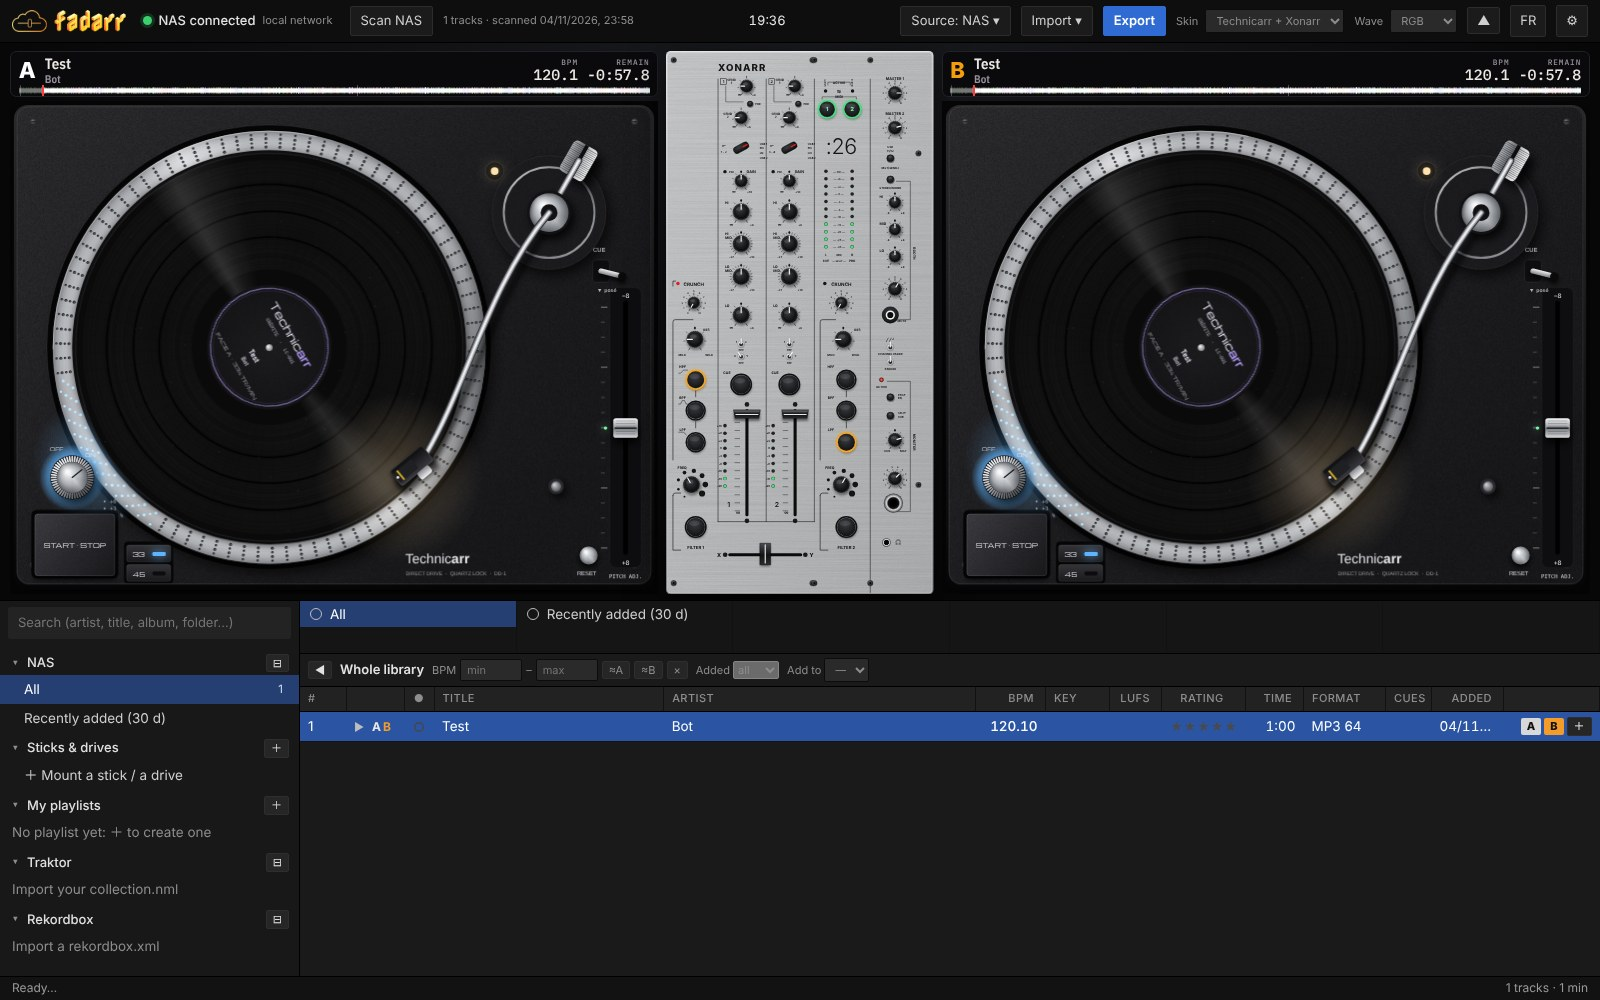
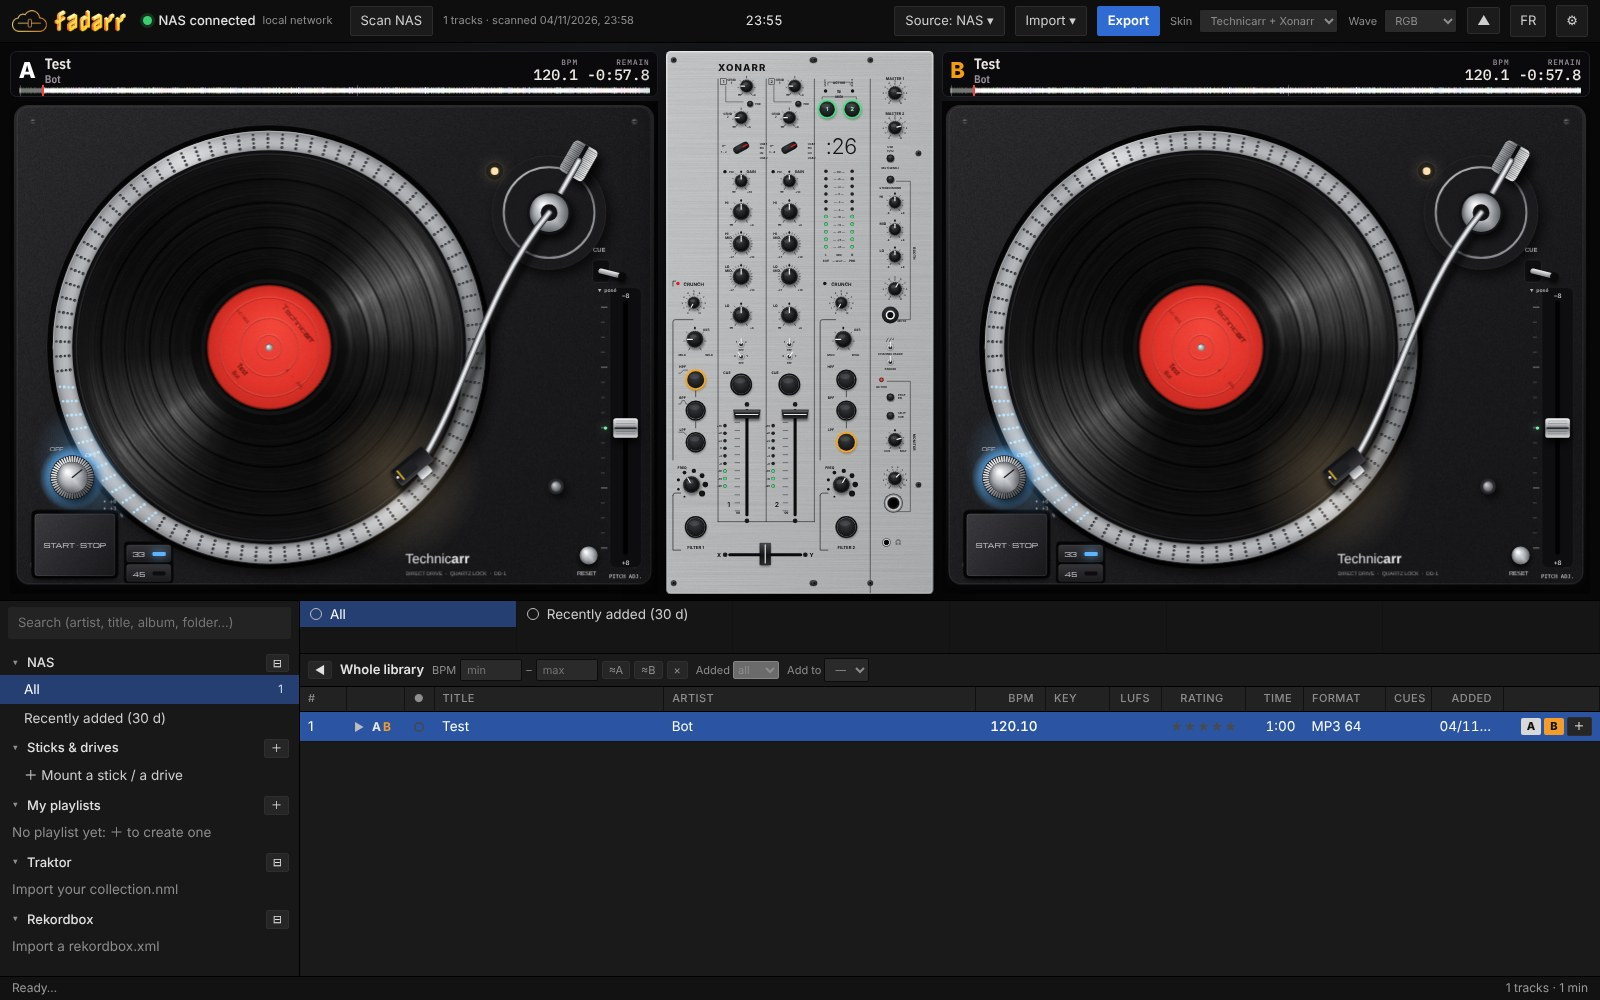
Technicarr : rendu vinyle réaliste (sillons, plages, reflets fixes, étiquette rouge pressée)
Claude-Session: https://claude.ai/code/session_01JRhxjUwib51qu579Lakuy5

diff --git a/public/technicarr.js b/public/technicarr.js
@@ -43,6 +43,8 @@
   const distSeg = (p, a, b) => { const dx = b.x - a.x; const dy = b.y - a.y; const t = Math.max(0, Math.min(1, ((p.x - a.x) * dx + (p.y - a.y) * dy) / (dx * dx + dy * dy))); return Math.hypot(p.x - a.x - t * dx, p.y - a.y - t * dy); };
   function rr(x, X, Y, w, h, r) { x.beginPath(); x.moveTo(X + r, Y); x.arcTo(X + w, Y, X + w, Y + h, r); x.arcTo(X + w, Y + h, X, Y + h, r); x.arcTo(X, Y + h, X, Y, r); x.arcTo(X, Y, X + w, Y, r); x.closePath(); }
 
+  /** Aléatoire reproductible de bonne qualité (mulberry32) : un LCG simple aligne ses tirages et dessine des anneaux. */
+  function rng(seed) { let t = seed >>> 0; return () => { t += 0x6D2B79F5; let r = Math.imul(t ^ (t >>> 15), 1 | t); r ^= r + Math.imul(r ^ (r >>> 7), 61 | r); return ((r ^ (r >>> 14)) >>> 0) / 4294967296; }; }
   let grainTile = null;
   function grain(size, seed) {
     const c = document.createElement('canvas'); c.width = c.height = size; const x = c.getContext('2d'); const im = x.createImageData(size, size);
@@ -227,7 +229,7 @@
       const w = this.canvas.clientWidth || W;
       this.canvas.width = Math.round(w * this.dpr); this.canvas.height = Math.round(w * H / W * this.dpr);
       this.scale = this.canvas.width / W;
-      this.buildBase(); this.recordKey = '';
+      this.buildBase(); this.recordKey = ''; this.sheenKey = '';
     }
     off(w, h) { const c = document.createElement('canvas'); c.width = Math.ceil(w * this.scale); c.height = Math.ceil(h * this.scale); const x = c.getContext('2d'); x.scale(this.scale, this.scale); return [c, x]; }
 
@@ -297,6 +299,13 @@
       this.base = c;
     }
 
+    /** Plages du disque (entre les morceaux) : rayons des sillons plus larges et lisses. */
+    bands() { return [0.17, 0.39, 0.62, 0.81].map((f) => R_OUT - f * (R_OUT - R_END)); }
+
+    /**
+     * Le disque (tourne avec le plateau) : vinyle noir profond, sillons très fins, plages lisses entre les morceaux,
+     * rebord biseauté, zone de sortie miroir, étiquette rouge pressée (anneaux en relief) avec le titre en encre sombre.
+     */
     buildRecord() {
       const tr = this.d.track;
       const title = tr ? (tr.title || tr.path.split('/').pop().replace(/\.[a-z0-9]+$/i, '')) : '';
@@ -304,33 +313,95 @@
       const key = `${this.scale}|${title}|${artist}|${this.S.rpm}`;
       if (key === this.recordKey) return; this.recordKey = key;
       const [c, x] = this.off(RR * 2, RR * 2); const cx = RR; const cy = RR;
-      x.beginPath(); x.arc(cx, cy, RR, 0, Math.PI * 2); x.fillStyle = '#0a0a0b'; x.fill();
-      let s = 11; const rnd = () => (s = (s * 16807) % 2147483647) / 2147483647;
-      for (let r = LABEL + 4; r < RR - 2; r += 0.55) {
-        const inTrack = r > R_END - 2 && r < R_OUT + 1; const a = inTrack ? 0.035 + rnd() * 0.06 : 0.015 + rnd() * 0.01;
-        x.strokeStyle = `rgba(255,255,255,${a})`; x.lineWidth = 0.35; x.beginPath(); x.arc(cx, cy, r, 0, Math.PI * 2); x.stroke();
+      const rnd = rng(11);
+      // corps
+      const body = x.createRadialGradient(cx, cy, LABEL, cx, cy, RR); body.addColorStop(0, '#060607'); body.addColorStop(0.92, '#09090a'); body.addColorStop(1, '#131315');
+      x.beginPath(); x.arc(cx, cy, RR, 0, Math.PI * 2); x.fillStyle = body; x.fill();
+      // sillons : un trait par ~0,45 unité, intensité qui varie doucement (modulation de la gravure)
+      const bands = this.bands();
+      // sillons : de fins arcs clairs semés au hasard (des cercles réguliers d'un pixel feraient du moiré)
+      for (let i = 0; i < 5200; i++) {
+        const r = R_END - 1 + rnd() * (R_OUT - R_END + 3); if (Math.min(...bands.map((b) => Math.abs(r - b))) < 1.4) continue;
+        const a0 = rnd() * Math.PI * 2; x.strokeStyle = `rgba(255,255,255,${0.01 + rnd() * 0.025})`; x.lineWidth = 0.35 + rnd() * 0.35;
+        x.beginPath(); x.arc(cx, cy, r, a0, a0 + 0.3 + rnd() * 1.6); x.stroke();
       }
-      [0.22, 0.47, 0.71].forEach((f) => { const r = R_OUT - f * (R_OUT - R_END); x.strokeStyle = 'rgba(0,0,0,.9)'; x.lineWidth = 2.6; x.beginPath(); x.arc(cx, cy, r, 0, Math.PI * 2); x.stroke(); });
-      for (let i = 0; i < 70; i++) { const a = rnd() * Math.PI * 2; const r = LABEL + 10 + rnd() * (RR - LABEL - 14); x.fillStyle = `rgba(255,255,255,${0.15 + rnd() * 0.35})`; x.fillRect(cx + r * Math.cos(a), cy + r * Math.sin(a), 0.6 + rnd(), 0.6); }
-      x.strokeStyle = 'rgba(255,255,255,.18)'; x.lineWidth = 1; x.beginPath(); x.arc(cx, cy, RR - 0.6, 0, Math.PI * 2); x.stroke();
+      bands.forEach((b) => { x.strokeStyle = 'rgba(0,0,0,.95)'; x.lineWidth = 2.4; x.beginPath(); x.arc(cx, cy, b, 0, Math.PI * 2); x.stroke(); });
+      // entrée (bord) et sortie (vers l'étiquette) : quelques sillons espacés, puis le miroir
+      for (const [r0, r1] of [[R_OUT + 3, RR - 4], [LABEL + 14, R_END - 3]]) for (let r = r0; r < r1; r += 3.1) { x.strokeStyle = 'rgba(255,255,255,.03)'; x.lineWidth = 0.6; x.beginPath(); x.arc(cx, cy, r, 0, Math.PI * 2); x.stroke(); }
+      // rebord biseauté
+      x.strokeStyle = 'rgba(255,255,255,.10)'; x.lineWidth = 2; x.beginPath(); x.arc(cx, cy, RR - 2, 0, Math.PI * 2); x.stroke();
+      x.strokeStyle = 'rgba(0,0,0,.9)'; x.lineWidth = 1.2; x.beginPath(); x.arc(cx, cy, RR - 3.6, 0, Math.PI * 2); x.stroke();
+      // poussières (rares)
+      for (let i = 0; i < 45; i++) { const a = rnd() * Math.PI * 2; const r = LABEL + 12 + rnd() * (RR - LABEL - 18); x.fillStyle = `rgba(255,255,255,${0.12 + rnd() * 0.28})`; x.fillRect(cx + r * Math.cos(a), cy + r * Math.sin(a), 0.5 + rnd() * 0.8, 0.5); }
+      // anneau mat autour de l'étiquette
+      x.strokeStyle = 'rgba(255,255,255,.05)'; x.lineWidth = 6; x.beginPath(); x.arc(cx, cy, LABEL + 6, 0, Math.PI * 2); x.stroke();
+      // étiquette rouge pressée
       x.save(); x.beginPath(); x.arc(cx, cy, LABEL, 0, Math.PI * 2); x.clip();
-      const lab = x.createRadialGradient(cx, cy, 10, cx, cy, LABEL); lab.addColorStop(0, '#1b1b1e'); lab.addColorStop(1, '#141416');
+      const lab = x.createRadialGradient(cx - 20, cy - 24, 8, cx, cy, LABEL); lab.addColorStop(0, '#f2453a'); lab.addColorStop(0.7, '#e2342b'); lab.addColorStop(1, '#c92a22');
       x.fillStyle = lab; x.fillRect(0, 0, RR * 2, RR * 2);
-      x.beginPath(); x.arc(cx, cy, LABEL, 0, Math.PI * 2); grainFill(x, 0.35, 'overlay');
-      x.beginPath(); x.arc(cx, cy, LABEL - 5, 0, Math.PI * 2); x.strokeStyle = '#b9a0ff'; x.lineWidth = 1.2; x.stroke();
-      x.beginPath(); x.arc(cx, cy, LABEL - 9, 0, Math.PI * 2); x.strokeStyle = 'rgba(185,160,255,.35)'; x.lineWidth = 0.6; x.stroke();
-      x.font = `300 17px ${F_DISP}`; const wA = x.measureText('Technic').width; x.font = `700 17px ${F_DISP}`; const wB = x.measureText('arr').width;
-      x.textAlign = 'left'; x.fillStyle = '#ece8f6'; x.font = `300 17px ${F_DISP}`; x.fillText('Technic', cx - (wA + wB) / 2, cy - 32);
-      x.font = `700 17px ${F_DISP}`; x.fillStyle = '#b9a0ff'; x.fillText('arr', cx - (wA + wB) / 2 + wA, cy - 32);
-      x.textAlign = 'center'; x.fillStyle = '#ece8f6';
+      x.beginPath(); x.arc(cx, cy, LABEL, 0, Math.PI * 2); grainFill(x, 0.22, 'overlay');
+      // anneaux en relief (pressage) : un trait clair + un trait sombre décalés, éclairés du même côté que le plateau
+      for (const rr0 of [LABEL * 0.8, LABEL * 0.47, LABEL * 0.2]) {
+        x.lineWidth = 1.1;
+        x.strokeStyle = 'rgba(255,190,180,.35)'; x.beginPath(); x.arc(cx - 0.6, cy - 0.6, rr0, 0, Math.PI * 2); x.stroke();
+        x.strokeStyle = 'rgba(90,10,8,.45)'; x.beginPath(); x.arc(cx + 0.6, cy + 0.6, rr0, 0, Math.PI * 2); x.stroke();
+      }
+      x.strokeStyle = 'rgba(0,0,0,.35)'; x.lineWidth = 2; x.beginPath(); x.arc(cx, cy, LABEL - 1, 0, Math.PI * 2); x.stroke();
+      // texte imprimé en encre sombre, discret, entre les anneaux
+      const ink = 'rgba(40,6,5,.78)';
       const fit = (t, max) => { let u = t; while (u.length > 3 && x.measureText(u).width > max) u = u.slice(0, -2); return u === t ? t : `${u.trim()}…`; };
-      x.font = `600 12px ${F_BODY}`; x.fillText(fit(title || 'fadarr', 150), cx, cy + 32);
-      if (artist) { x.font = `500 10px ${F_BODY}`; x.fillStyle = 'rgba(236,232,246,.75)'; x.fillText(fit(artist, 140), cx, cy + 46); }
-      x.font = `8px ${F_DISP}`; x.fillStyle = 'rgba(236,232,246,.6)'; x.fillText(`FACE A  ·  ${this.S.rpm < 40 ? '33⅓' : '45'} TR/MIN`, cx, cy + 62);
-      x.font = `7.5px ${F_MONO}`; x.fillText('CRÉPITE  ·  LC-001', cx, cy - 16);
+      x.textAlign = 'center'; x.fillStyle = ink;
+      x.font = `300 11px ${F_DISP}`; const wA = x.measureText('Technic').width; x.font = `700 11px ${F_DISP}`; const wB = x.measureText('arr').width;
+      x.textAlign = 'left'; x.font = `300 11px ${F_DISP}`; x.fillText('Technic', cx - (wA + wB) / 2, cy - 54); x.font = `700 11px ${F_DISP}`; x.fillText('arr', cx - (wA + wB) / 2 + wA, cy - 54);
+      x.textAlign = 'center';
+      x.font = `600 11.5px ${F_BODY}`; x.fillText(fit(title || 'fadarr', 120), cx, cy + 58);
+      if (artist) { x.font = `500 9.5px ${F_BODY}`; x.fillStyle = 'rgba(40,6,5,.62)'; x.fillText(fit(artist, 110), cx, cy + 70); }
+      x.font = `7px ${F_MONO}`; x.fillStyle = 'rgba(40,6,5,.55)';
+      x.fillText(`A  ·  ${this.S.rpm < 40 ? '33⅓' : '45'}`, cx + 62, cy + 3); x.fillText('LC-001', cx - 62, cy + 3);
       x.restore();
-      x.beginPath(); x.arc(cx, cy, 5, 0, Math.PI * 2); x.fillStyle = '#000'; x.fill();
+      // trou central
+      x.beginPath(); x.arc(cx, cy, 5.2, 0, Math.PI * 2); x.fillStyle = '#000'; x.fill();
+      x.strokeStyle = 'rgba(255,220,210,.5)'; x.lineWidth = 0.8; x.beginPath(); x.arc(cx, cy, 5.6, 0, Math.PI * 2); x.stroke();
       this.recordImg = c;
+    }
+
+    /**
+     * Reflet du vinyle (fixe : c'est la lumière de la pièce, il ne tourne pas avec le disque) : les sillons accrochent la
+     * lumière en deux grands éventails opposés. Les sillons étant circulaires, le calque est construit une fois.
+     */
+    buildSheen() {
+      const key = `${this.scale}`; if (this.sheenKey === key) return; this.sheenKey = key;
+      const [c, x] = this.off(RR * 2, RR * 2); const cx = RR; const cy = RR;
+      const rnd = rng(7);
+      // profil radial : sillons brillants (légère variation d'un morceau à l'autre), plages sombres, entrée / sortie plus mates
+      const bands = this.bands(); const prof = x.createRadialGradient(cx, cy, LABEL + 8, cx, cy, RR - 2);
+      const span = RR - 2 - (LABEL + 8); const at = (rad) => Math.max(0, Math.min(1, (rad - LABEL - 8) / span));
+      prof.addColorStop(0, 'rgba(255,255,255,.18)'); prof.addColorStop(at(R_END - 3), 'rgba(255,255,255,.22)');
+      const edges = [R_END, ...bands.slice().reverse(), R_OUT];
+      for (let i = 0; i < edges.length - 1; i++) {
+        const r0 = edges[i]; const r1 = edges[i + 1]; const lv = 0.75 + rnd() * 0.25;
+        prof.addColorStop(at(r0 + 1.6), `rgba(255,255,255,${lv})`); prof.addColorStop(at(r1 - 1.6), `rgba(255,255,255,${lv * (0.9 + rnd() * 0.1)})`);
+        if (i < edges.length - 2) prof.addColorStop(at(r1), 'rgba(255,255,255,.06)');
+      }
+      prof.addColorStop(at(R_OUT + 3), 'rgba(255,255,255,.35)'); prof.addColorStop(1, 'rgba(255,255,255,.3)');
+      x.beginPath(); x.arc(cx, cy, RR - 2, 0, Math.PI * 2); x.arc(cx, cy, LABEL + 8, 0, Math.PI * 2, true); x.fillStyle = prof; x.fill('evenodd');
+      // grain fin des sillons dans le reflet : bruit tourné en anneaux (pas de traits réguliers, donc pas de moiré)
+      x.save(); x.globalCompositeOperation = 'destination-out';
+      for (let i = 0; i < 2600; i++) { const rad = LABEL + 10 + rnd() * (RR - LABEL - 13); const a0 = rnd() * Math.PI * 2; x.strokeStyle = `rgba(0,0,0,${0.15 + rnd() * 0.35})`; x.lineWidth = 0.4 + rnd() * 0.6; x.beginPath(); x.arc(cx, cy, rad, a0, a0 + 0.2 + rnd() * 1.2); x.stroke(); }
+      x.restore();
+      // masque : deux éventails (haut-droite et bas-gauche), plus un léger troisième, comme sur la photo
+      x.globalCompositeOperation = 'destination-in';
+      if (x.createConicGradient) {
+        const g = x.createConicGradient(-Math.PI * 0.32, cx, cy);
+        [[0, 0], [0.03, 0.12], [0.085, 0.75], [0.105, 0.55], [0.17, 0.12], [0.26, 0], [0.47, 0], [0.5, 0.1], [0.565, 0.6], [0.585, 0.4], [0.65, 0.07], [0.74, 0], [0.9, 0], [0.95, 0.05], [1, 0]]
+          .forEach(([o, al]) => g.addColorStop(o, `rgba(0,0,0,${al})`));
+        x.fillStyle = g; x.fillRect(0, 0, RR * 2, RR * 2);
+      }
+      x.globalCompositeOperation = 'source-over';
+      // voile brillant très doux sur tout le disque (vernis du vinyle)
+      const v = x.createLinearGradient(RR * 2, 0, 0, RR * 2); v.addColorStop(0, 'rgba(255,255,255,.05)'); v.addColorStop(0.5, 'rgba(255,255,255,0)'); v.addColorStop(1, 'rgba(255,255,255,.03)');
+      x.beginPath(); x.arc(cx, cy, RR - 2, 0, Math.PI * 2); x.arc(cx, cy, LABEL + 2, 0, Math.PI * 2, true); x.fillStyle = v; x.fill('evenodd');
+      this.sheenImg = c;
     }
 
     drawStrobe(x) {
@@ -362,12 +433,8 @@
         this.buildRecord();
         x.save(); x.shadowColor = 'rgba(0,0,0,.6)'; x.shadowBlur = 6; x.shadowOffsetY = 2;
         x.translate(C.x, C.y); x.rotate(S.recAng); x.drawImage(this.recordImg, -RR, -RR, RR * 2, RR * 2); x.restore();
-        if (x.createConicGradient) {
-          const cg = x.createConicGradient(LIGHT, C.x, C.y);
-          [[0, 0], [0.025, 0.13], [0.05, 0.05], [0.08, 0], [0.47, 0], [0.5, 0.09], [0.53, 0], [1, 0]].forEach(([o, a]) => cg.addColorStop(o, `rgba(255,255,255,${a})`));
-          x.save(); x.beginPath(); x.arc(C.x, C.y, RR - 1, 0, Math.PI * 2); x.arc(C.x, C.y, LABEL, 0, Math.PI * 2, true);
-          x.globalCompositeOperation = 'screen'; x.fillStyle = cg; x.fill('evenodd'); x.restore();
-        }
+        this.buildSheen();
+        x.save(); x.globalCompositeOperation = 'screen'; x.globalAlpha = 0.68; x.drawImage(this.sheenImg, C.x - RR, C.y - RR, RR * 2, RR * 2); x.restore();
       } else {
         x.save(); x.translate(C.x, C.y); x.rotate(S.recAng);
         for (let r = 60; r < RR; r += 14) { x.strokeStyle = 'rgba(255,255,255,.035)'; x.lineWidth = 6; x.beginPath(); x.arc(0, 0, r, 0, Math.PI * 2); x.stroke(); }

diff --git a/CHANGELOG.md b/CHANGELOG.md
@@ -12,6 +12,8 @@ versions en [SemVer](https://semver.org/lang/fr/). / All notable changes; Englis
   de disque, scratch, pitch ±8 / ±16 relié au tempo du deck (+ vers soi, SYNC compris), 33 / 45, lampe, stroboscope,
   craquements discrets. Bandeau au-dessus de chaque platine : titre, tonalité, BPM, temps, forme d'onde générale.
   Changer de skin en pleine lecture ne coupe pas le son.
+- **Rendu vinyle** : noir profond et brillant, sillons fins, plages entre les morceaux, deux grands reflets fixes (la
+  lumière de la pièce ne tourne pas avec le disque), rebord biseauté, étiquette rouge pressée avec anneaux en relief.
 - Polices Michroma et IBM Plex embarquées (`public/fonts`, licence OFL) : aucune requête vers l'extérieur.
 
 *EN: new Technicarr + Xonarr look — two direct-drive vinyl turntables with real scratching, wired to the decks.*
